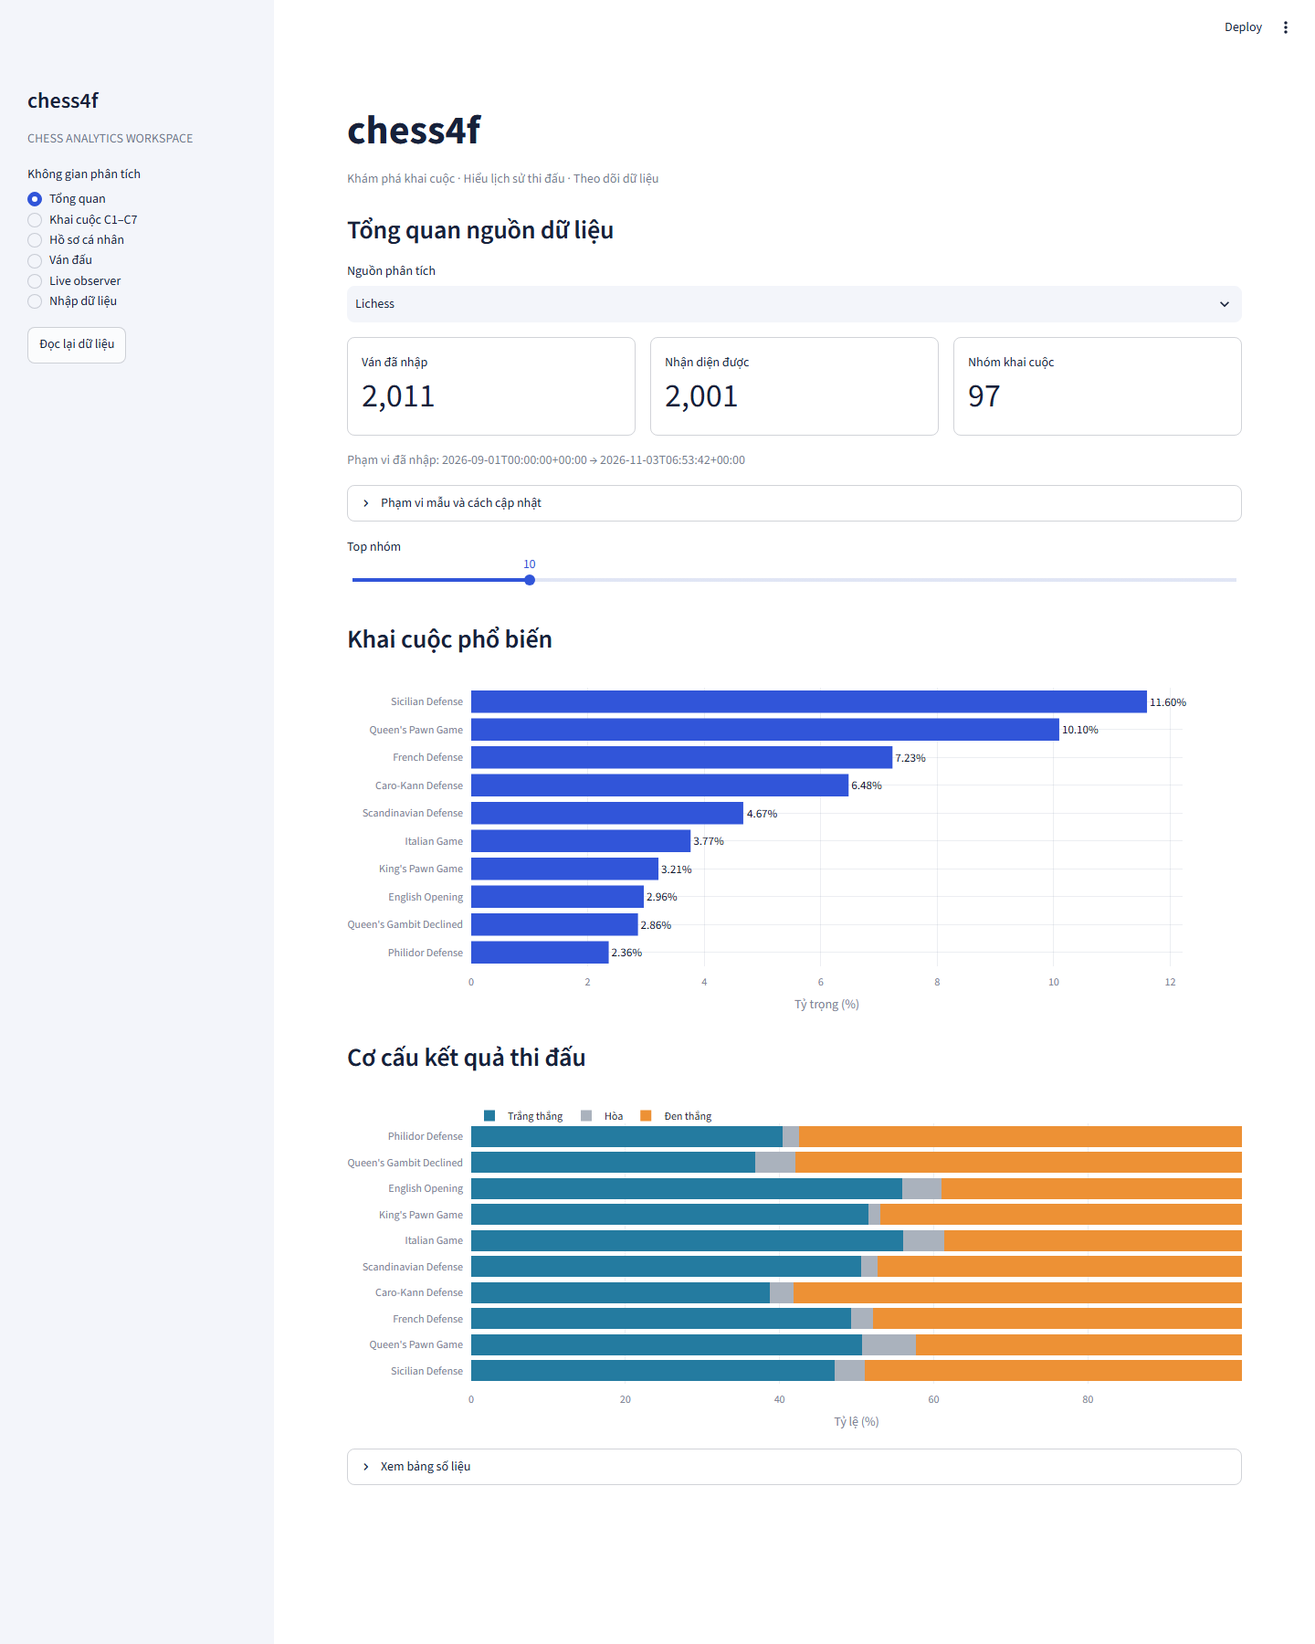
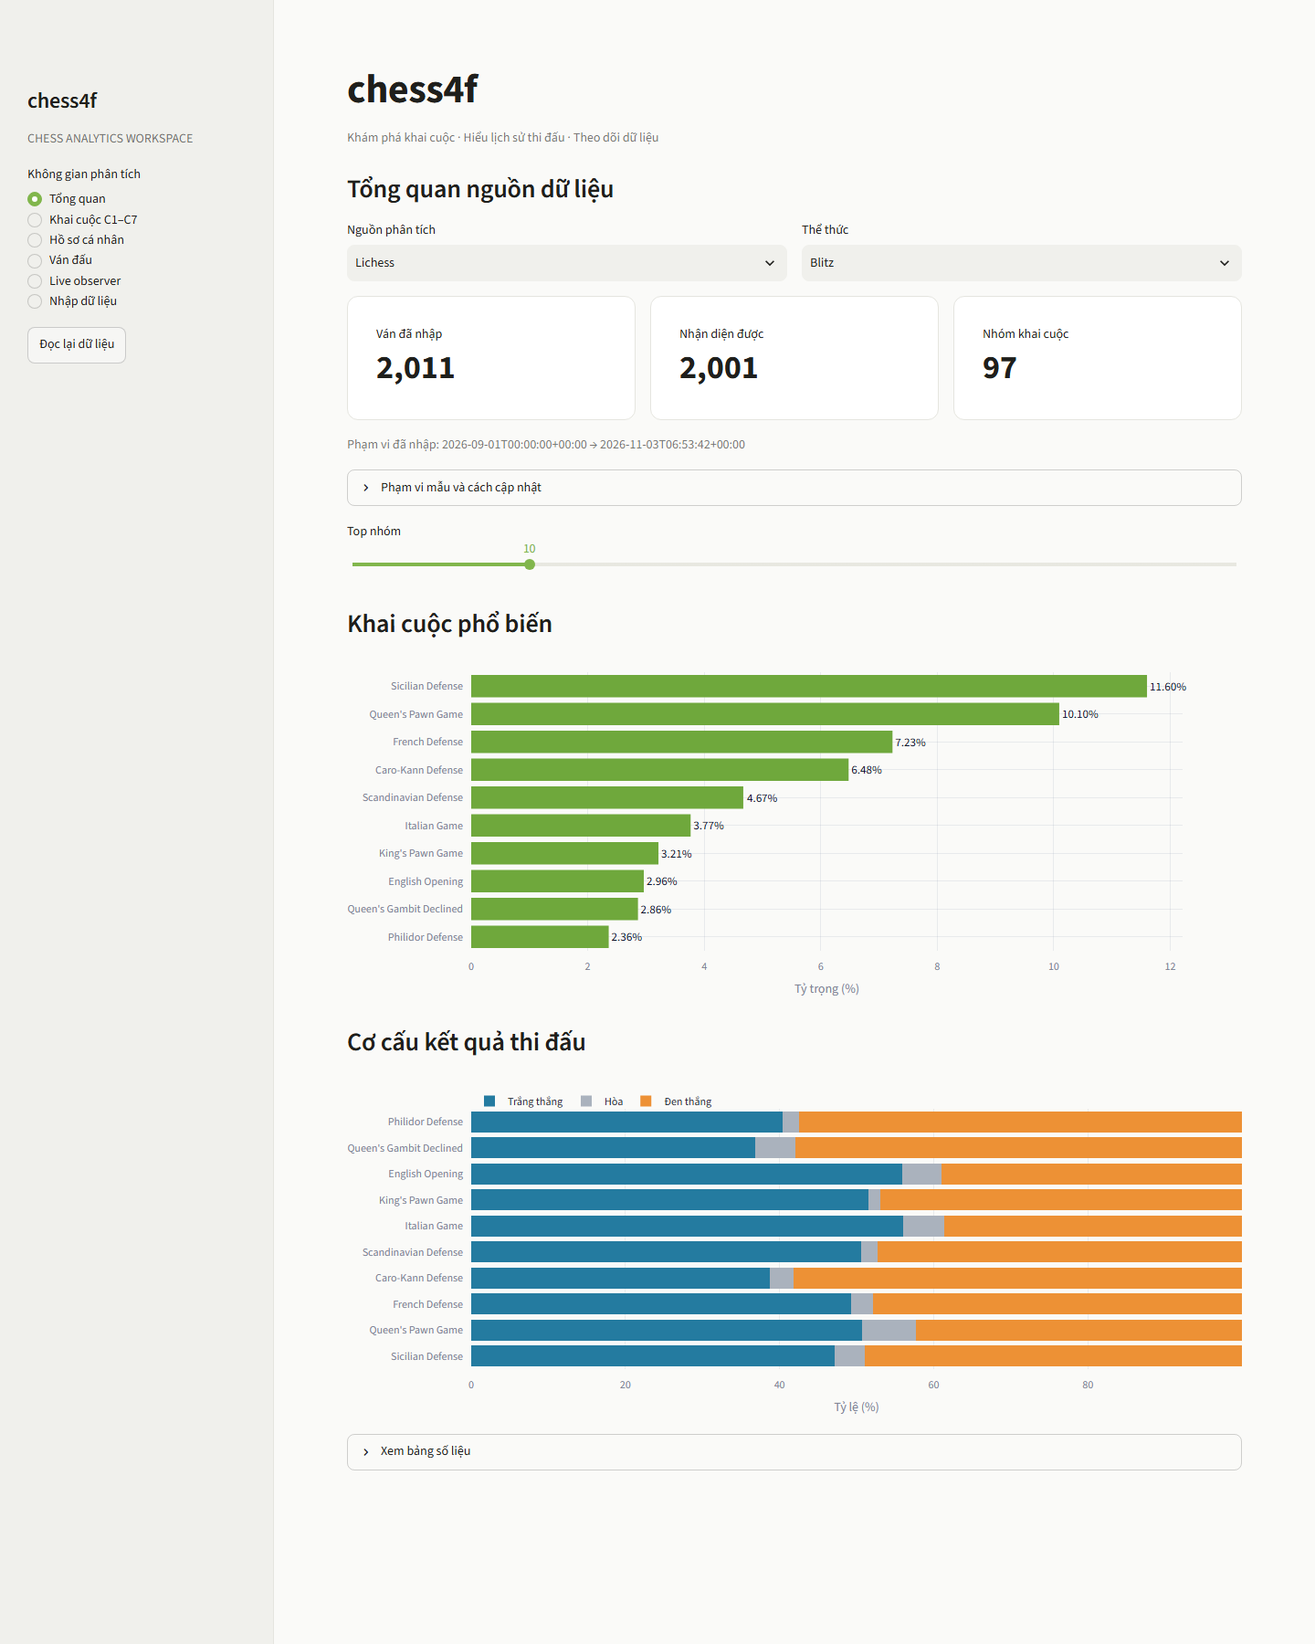
Add rapid speed dimension, player provenance and chess.com-style theme
- Gold aggregates and both overview paths now keep every speed; API and UI
  expose an explicit blitz/rapid/bullet/classical/all filter. Lichess
  collection accepts Rated Rapid (processor version 3) and the Sep/Oct
  refresh added 267 + 249 rapid games.
- Player profiles report own_archive_games from source URIs; accounts that
  only appear as opponents no longer count as imported and auto-fetch runs.
- Streamlit restyle: green accent, card metrics, rounded containers, classic
  green board palette; charts use the green primary colour.
- New release r_1abbfd67 (6,014 games, 473,595 moves, 1,115 aggregates,
  12,028 player rows) passed Spark parity and Trino publication.
- 46 tests; verify-serving and C1-C7 pass; docs/screenshots refreshed.

diff --git a/apps/dashboard.py b/apps/dashboard.py
@@ -9,6 +9,17 @@ import plotly.express as px
 import streamlit as st
 
 st.set_page_config(page_title="chess4f · Chess intelligence", page_icon="♞", layout="wide")
+st.markdown("""
+<style>
+  .block-container {padding-top: 2.2rem; max-width: 1200px;}
+  [data-testid="stMetric"] {background: #ffffff; border: 1px solid #e5e5df; border-radius: 12px; padding: 14px 16px;}
+  [data-testid="stMetricValue"] {font-weight: 700;}
+  [data-testid="stSidebar"] {border-right: 1px solid #e5e5df;}
+  h1, h2, h3 {letter-spacing: -0.01em;}
+  .stButton > button[kind="primary"] {background: #81B64C; border-color: #81B64C;}
+  [data-testid="stToolbar"], [data-testid="stDecoration"] {display: none;}
+</style>
+""", unsafe_allow_html=True)
 API = os.environ.get("CHESS4F_API", "http://127.0.0.1:8000")
 
 
@@ -23,6 +34,10 @@ def get(path, params=None):
 
 
 SOURCE_NAMES = {"lichess": "Lichess", "chesscom": "Chess.com", "import": "PGN nhập thủ công"}
+SPEEDS = ["blitz", "rapid", "bullet", "classical", "all"]
+SPEED_NAMES = {"blitz": "Blitz", "rapid": "Cờ 10 phút (Rapid)", "bullet": "Bullet",
+               "classical": "Classical", "all": "Tất cả thể thức"}
+BOARD_COLORS = {"square light": "#EEEED2", "square dark": "#769656"}
 st.title("chess4f")
 st.caption("Khám phá khai cuộc · Hiểu lịch sử thi đấu · Theo dõi dữ liệu")
 st.sidebar.title("chess4f")
@@ -33,8 +48,10 @@ if st.sidebar.button("Đọc lại dữ liệu"):
 
 if section == "Tổng quan":
     st.subheader("Tổng quan nguồn dữ liệu")
-    source = st.selectbox("Nguồn phân tích",["lichess","chesscom","import"], format_func=SOURCE_NAMES.get)
-    data = get("/overview",{"source":source})
+    a, b = st.columns(2)
+    source = a.selectbox("Nguồn phân tích",["lichess","chesscom","import"], format_func=SOURCE_NAMES.get)
+    speed = b.selectbox("Thể thức", SPEEDS, format_func=SPEED_NAMES.get, index=0)
+    data = get("/overview",{"source":source,"speed":speed})
     if data:
         s = data["summary"]
         if not s["games"]:
@@ -80,11 +97,13 @@ if section == "Tổng quan":
             with st.expander("Xem bảng số liệu"):
                 st.dataframe(df, width="stretch", hide_index=True)
         else:
-            st.warning("Chưa có Rated Blitz đủ điều kiện. Hồ sơ cá nhân vẫn hỗ trợ các thể thức khác.")
+            st.warning("Chưa có ván đủ điều kiện cho thể thức này. Hồ sơ cá nhân vẫn hỗ trợ các thể thức khác.")
 elif section == "Khai cuộc C1–C7":
     from opening_analysis import render
-    source = st.selectbox("Nguồn phân tích", ["lichess", "chesscom", "import"], format_func=SOURCE_NAMES.get)
-    payload = get("/openings/cube", {"source": source})
+    a, b = st.columns(2)
+    source = a.selectbox("Nguồn phân tích", ["lichess", "chesscom", "import"], format_func=SOURCE_NAMES.get)
+    speed = b.selectbox("Thể thức", SPEEDS, format_func=SPEED_NAMES.get, key="cube_speed")
+    payload = get("/openings/cube", {"source": source, "speed": speed})
     if payload:
         render(payload)
 elif section == "Hồ sơ cá nhân":
@@ -96,8 +115,8 @@ elif section == "Hồ sơ cá nhân":
     player_sync(API, source, username)
     if username:
         data = get(f"/players/{source}/{username}")
-        if data and data["summary"]["games"] == 0 and auto:
-            data = auto_sync_if_missing(API, source, username)
+        if data and source != "import" and auto and data["summary"].get("own_archive_games", 0) == 0:
+            data = auto_sync_if_missing(API, source, username) or data
         if data:
             from player_profile_view import render
             render(data)
@@ -111,7 +130,7 @@ elif section == "Ván đấu":
             board = chess.Board(moves[ply-1]["fen_after"]) if ply else chess.Board()
             a,b = st.columns([1,1])
             with a:
-                st.image(chess.svg.board(board,size=450), width=450)
+                st.image(chess.svg.board(board,size=450, colors=BOARD_COLORS), width=450)
             with b:
                 st.write(f'{game["white"]} — {game["black"]}')
                 st.write("Nhãn tại mốc:",moves[ply-1]["opening_name"] if ply else "Chưa có")
@@ -157,7 +176,7 @@ elif section == "Live observer":
                 st.subheader(" — ".join(names))
                 st.caption(f'Nhận gần nhất: {data.get("received_at", "chưa có")} · {data["source_delay"]}')
                 if data.get("fen"):
-                    st.image(chess.svg.board(chess.Board(data["fen"]),size=440), width=440)
+                    st.image(chess.svg.board(chess.Board(data["fen"]),size=440, colors=BOARD_COLORS), width=440)
                 label = data.get("opening")
                 st.write("Nhãn khớp gần nhất:", f'{label["name"]} ({label["eco"]})' if label else "Chưa nhận diện")
                 st.caption(f'Số sự kiện đã nhận: {data.get("received_events", 0)}')

diff --git a/src/chess4f/analytics.py b/src/chess4f/analytics.py
@@ -11,21 +11,24 @@ def records(cursor):
     return [dict(zip(cols, row)) for row in cursor.fetchall()]
 
 
-def overview(root, source="lichess"):
+def overview(root, source="lichess", speed="blitz"):
     lake = Lake(root)
+    speed_clause = "" if speed == "all" else " AND speed=?"
+    parameters = [source] if speed == "all" else [source, speed]
     with lake.connection() as con:
-        counts = records(con.execute("""SELECT count(*) games,
+        counts = records(con.execute(f"""SELECT count(*) games,
             count(opening_family) recognized, count(DISTINCT opening_family) opening_families,
-            min(played_at) first_game, max(played_at) last_game FROM silver_games WHERE source=?""",[source]))[0]
-        top = records(con.execute("""SELECT opening_family, sum(n_games)::BIGINT n_games,
+            min(played_at) first_game, max(played_at) last_game FROM silver_games
+            WHERE source=?{speed_clause}""", parameters))[0]
+        top = records(con.execute(f"""SELECT opening_family, sum(n_games)::BIGINT n_games,
             100*sum(white_score_sum)/sum(n_games) white_score_pct,
             100*sum(white_wins)/sum(n_games) white_win_pct,
             100*sum(draws)/sum(n_games) draw_pct,
             100*sum(black_wins)/sum(n_games) black_win_pct,
             100*sum(n_games)/sum(sum(n_games)) OVER () popularity_pct
-            FROM gold_openings WHERE source=? GROUP BY opening_family ORDER BY n_games DESC""",[source]))
-    return {"summary": counts, "openings": top, "source":source,
-            "scope": "Rated Blitz, recognized games only for opening charts; imported coverage, not platform-wide population",
+            FROM gold_openings WHERE source=?{speed_clause} GROUP BY opening_family ORDER BY n_games DESC""", parameters))
+    return {"summary": counts, "openings": top, "source": source, "speed": speed,
+            "scope": "Rated games by selected speed, recognized only for opening charts; imported coverage, not platform-wide population",
             "versions": lake.versions()}
 
 
@@ -45,6 +48,15 @@ def player_profile(root, source, username, *, connection_factory=None):
         history = records(con.execute("""SELECT game_key, played_at, opponent, color, speed, rating,
             outcome, opening_family FROM gold_player_games WHERE source=? AND player=?
             ORDER BY played_at DESC LIMIT 200""", parameters))
+        # A player can appear only as an opponent inside someone else's archive.
+        # Count rows whose source object actually belongs to this account so the
+        # UI can distinguish "their history" from "games against them".
+        pattern = (f"%player/{username.lower()}/%" if source == "chesscom"
+                   else f"%games/user/{username.lower()}%")
+        own = records(con.execute("""SELECT count(*) own_archive_games FROM silver_games
+            WHERE source=? AND (white=? OR black=?) AND lower(source_uri) LIKE ?""",
+            [source, username.lower(), username.lower(), pattern]))[0]["own_archive_games"]
+    summary["own_archive_games"] = own
     return dict(source=source, player=username.lower(), summary=summary,
                 openings=openings, opponents=opponents, history=history,
                 coverage="Imported games only; not necessarily full platform history")

diff --git a/src/chess4f/lakehouse.py b/src/chess4f/lakehouse.py
@@ -26,6 +26,9 @@ def release_id(value):
     return value
 
 
+SPEEDS = ("blitz", "rapid", "bullet", "classical", "all")
+
+
 def setup(project):
     path = Path(project) / ".env.lakehouse"
     # Never replace working credentials on a repeated setup.
@@ -191,27 +194,31 @@ def validate_publish(root, project, rid):
         return manifest
 
 
-def overview(root, source):
+def overview(root, source, speed="blitz"):
     if source not in ("lichess", "chesscom", "import"):
         raise ValueError("Unknown source")
+    if speed not in SPEEDS:
+        raise ValueError("Unknown speed")
     pointer = Path(root) / "published/latest.json"
     if not pointer.exists():
         raise RuntimeError("No validated lakehouse release has been published")
     manifest = json.loads(pointer.read_text(encoding="utf-8"))
     rid = release_id(manifest["release_id"])
+    speed_clause = "" if speed == "all" else f" AND speed='{speed}'"
     summary = sql(f"SELECT count(*) games, count(opening_family) recognized, "
                   f"count(DISTINCT opening_family) opening_families, min(played_at) first_game, "
-                  f"max(played_at) last_game FROM chess.{rid}.silver_games WHERE source='{source}'")[0]
+                  f"max(played_at) last_game FROM chess.{rid}.silver_games "
+                  f"WHERE source='{source}'{speed_clause}")[0]
     rows = sql(f"""SELECT opening_family, sum(n_games) n_games,
       100.0*sum(white_score_sum)/sum(n_games) white_score_pct,
       100.0*sum(white_wins)/sum(n_games) white_win_pct,
       100.0*sum(draws)/sum(n_games) draw_pct,
       100.0*sum(black_wins)/sum(n_games) black_win_pct,
       100.0*sum(n_games)/sum(sum(n_games)) OVER () popularity_pct
-      FROM chess.{rid}.spark_openings WHERE source='{source}'
+      FROM chess.{rid}.spark_openings WHERE source='{source}'{speed_clause}
       GROUP BY opening_family ORDER BY n_games DESC""")
-    return {"summary": summary, "openings": rows, "source": source, "engine": "trino",
-            "release_id": rid, "versions": manifest["source_versions"]}
+    return {"summary": summary, "openings": rows, "source": source, "speed": speed,
+            "engine": "trino", "release_id": rid, "versions": manifest["source_versions"]}
 
 
 def main():

diff --git a/tests/test_pipeline.py b/tests/test_pipeline.py
@@ -90,8 +90,9 @@ def test_api_contract_with_local_fixture(lake_root, pgn_file, monkeypatch):
     monkeypatch.setenv("CHESS4F_DATA", str(lake_root))
     ingest_pgn(lake_root, pgn_file, "lichess")
     from chess4f import api, analytics
-    for name in ("overview", "player_profile", "game_detail", "move_habits"):
+    for name in ("player_profile", "game_detail", "move_habits"):
         monkeypatch.setattr(api, name, getattr(analytics, name))
+    monkeypatch.setattr(api, "overview", lambda root, source, speed: analytics.overview(root, source))
     client = TestClient(app)
     assert client.get("/health").status_code == 200
     assert client.get("/overview").json()["summary"]["games"] == 2
@@ -105,3 +106,23 @@ def test_lichess_game_url_and_legacy_url_share_identity(lake_root, pgn_file):
     run = ingest_pgn(lake_root, pgn_file, "lichess")
     assert run["accepted"] == 2 and run["quarantined"] == 0
     assert overview(lake_root)["summary"]["games"] == 2
+
+
+def test_rapid_games_reach_gold_aggregates(lake_root, pgn_file):
+    rapid = pgn("RaPiD123").replace('[TimeControl "180+2"]', '[TimeControl "600+0"]')
+    rapid = rapid.replace('[Event "Rated Blitz game"]', '[Event "Rated Rapid game"]')
+    pgn_file.write_text(rapid, encoding="utf-8")
+    ingest_pgn(lake_root, pgn_file, "lichess")
+    with Lake(lake_root).connection() as con:
+        speeds = dict(con.execute("SELECT speed, count(*) FROM gold_openings GROUP BY speed").fetchall())
+    assert speeds.get("rapid") == 1
+    assert "blitz" not in speeds
+
+
+def test_player_profile_separates_own_archive_from_opponent_rows(lake_root, pgn_file):
+    ingest_pgn(lake_root, pgn_file, "lichess", source_uri="https://lichess.org/api/games/user/alice")
+    profile = player_profile(lake_root, "lichess", "alice")
+    assert profile["summary"]["own_archive_games"] == 2
+    opponent = player_profile(lake_root, "lichess", "bob")
+    assert opponent["summary"]["games"] == 2
+    assert opponent["summary"]["own_archive_games"] == 0

diff --git a/src/chess4f/trino_serving.py b/src/chess4f/trino_serving.py
@@ -64,17 +64,21 @@ def move_habits(root, source, username, fen, before, exclude_game=None):
 overview = lakehouse.overview
 
 
-def opening_cube(root, source):
+def opening_cube(root, source, speed="blitz"):
     if source not in ("lichess", "chesscom", "import"):
         raise ValueError("Unknown source")
+    if speed not in ("blitz", "rapid", "bullet", "classical", "all"):
+        raise ValueError("Unknown speed")
+    speed_clause = "" if speed == "all" else " AND speed=?"
+    parameters = [source] if speed == "all" else [source, speed]
     with connection(root) as con:
-        cursor = con.execute("""SELECT year_month, rating_group, opening_family, opening_name,
+        cursor = con.execute(f"""SELECT year_month, rating_group, speed, opening_family, opening_name,
             count(*) n_games,
             sum(CASE WHEN result='1-0' THEN 1 ELSE 0 END) white_wins,
             sum(CASE WHEN result='1/2-1/2' THEN 1 ELSE 0 END) draws,
             sum(CASE WHEN result='0-1' THEN 1 ELSE 0 END) black_wins
-            FROM silver_games WHERE source=? AND rated AND speed='blitz' AND opening_family IS NOT NULL
-            GROUP BY year_month, rating_group, opening_family, opening_name
-            ORDER BY year_month, rating_group, opening_family, opening_name""", [source])
+            FROM silver_games WHERE source=? AND rated AND opening_family IS NOT NULL{speed_clause}
+            GROUP BY year_month, rating_group, speed, opening_family, opening_name
+            ORDER BY year_month, rating_group, speed, opening_family, opening_name""", parameters)
         rows = [dict(zip(cursor.columns, row)) for row in cursor.fetchall()]
-        return {"release_id": con.release, "source": source, "rows": rows}
+        return {"release_id": con.release, "source": source, "speed": speed, "rows": rows}

diff --git a/src/chess4f/sources.py b/src/chess4f/sources.py
@@ -94,7 +94,7 @@ class HeaderFilter(chess.pgn.GameBuilder):
         h = self.game.headers
         if not h.get("UTCDate", h.get("Date", "")).startswith(self.day.replace("-", ".")):
             return chess.pgn.SKIP
-        if not re.match(r"^Rated Blitz\b", h.get("Event", "")):
+        if not re.match(r"^Rated (Blitz|Rapid)\b", h.get("Event", "")):
             return chess.pgn.SKIP
         return super().end_headers()
 
@@ -148,7 +148,7 @@ def lichess_day(root, day, limit=1000):
                                 break
                             manifest["scanned"] += 1
                             h = game.headers
-                            if h.get("UTCDate", h.get("Date", "")).startswith(day.replace("-", ".")) and re.match(r"^Rated Blitz\b", h.get("Event", "")):
+                            if h.get("UTCDate", h.get("Date", "")).startswith(day.replace("-", ".")) and re.match(r"^Rated (Blitz|Rapid)\b", h.get("Event", "")):
                                 out.write(str(game) + "\n\n")
                                 manifest["selected"] += 1
                             if manifest["scanned"] % 10000 == 0:

diff --git a/src/chess4f/api.py b/src/chess4f/api.py
@@ -18,10 +18,12 @@ def health():
 
 
 @app.get("/overview")
-def overview_route(source: str = "lichess"):
+def overview_route(source: str = "lichess", speed: str = "blitz"):
     if source not in ("lichess", "chesscom", "import"):
         raise HTTPException(422, "Unknown source")
-    return overview(data_root(), source)
+    if speed not in ("blitz", "rapid", "bullet", "classical", "all"):
+        raise HTTPException(422, "Unknown speed")
+    return overview(data_root(), source, speed)
 
 
 @app.get("/players/{source}/{username}")
@@ -85,9 +87,9 @@ async def serving_unavailable(request, exc):
     return JSONResponse(status_code=503, content={"detail": "Published lakehouse is unavailable; check Trino and the release pointer."})
 
 @app.get("/openings/cube")
-def openings(source: str = "lichess"):
+def openings(source: str = "lichess", speed: str = "blitz"):
     try:
-        return opening_cube(data_root(), source)
+        return opening_cube(data_root(), source, speed)
     except ValueError as exc:
         raise HTTPException(422, str(exc)) from exc
 

diff --git a/apps/player_profile_view.py b/apps/player_profile_view.py
@@ -13,6 +13,8 @@ def render(data):
     if not s["games"]:
         st.info("Chưa có ván của tài khoản này trong dữ liệu đã nhập. Mở mục Tải / cập nhật lịch sử ở phía trên để đồng bộ tài khoản, hoặc thử Chess.com / hikaru với bộ demo hiện tại.")
         return
+    if int(s.get("own_archive_games") or 0) == 0:
+        st.info("Các ván đang hiển thị đến từ lịch sử của đối thủ, chưa phải lịch sử của chính tài khoản này. Hãy nhập đúng username và để hệ thống tải lịch sử của tài khoản.")
     for col, key, label in zip(st.columns(4), ["games", "wins", "draws", "losses"], ["Số ván", "Thắng", "Hòa", "Thua"]):
         col.metric(label, thousands(int(s.get(key) or 0)), border=True)
     wins, draws, losses = int(s.get("wins") or 0), int(s.get("draws") or 0), int(s.get("losses") or 0)

diff --git a/apps/opening_analysis.py b/apps/opening_analysis.py
@@ -8,7 +8,9 @@ from theme import COLORS, WDL, style
 
 def render(payload):
     st.header("Khai cuộc · mức sử dụng và kết quả")
-    st.caption(f'Bản dữ liệu: {payload["release_id"]} · Rated Blitz đã nhận diện')
+    labels = {"blitz": "Blitz", "rapid": "Cờ 10 phút (Rapid)", "bullet": "Bullet",
+              "classical": "Classical", "all": "tất cả thể thức"}
+    st.caption(f'Bản dữ liệu: {payload["release_id"]} · {labels.get(payload.get("speed"), payload.get("speed"))} đã nhận diện')
     st.info("Tỷ lệ điểm Trắng = (số ván Trắng thắng + 0,5 × số ván hòa) / tổng số ván × 100%. Đây là kết quả thực chiến, không phải xác suất thắng của một thế cờ hay tác động nhân quả của khai cuộc.")
     df = pd.DataFrame(payload["rows"])
     if df.empty:

diff --git a/src/chess4f/pipeline.py b/src/chess4f/pipeline.py
@@ -104,7 +104,7 @@ def rebuild_gold(lake):
                    sum((result='1/2-1/2')::INTEGER)::BIGINT draws,
                    sum((result='0-1')::INTEGER)::BIGINT black_wins,
                    sum(white_score)::DOUBLE white_score_sum
-            FROM silver_games WHERE rated AND speed='blitz' AND opening_family IS NOT NULL
+            FROM silver_games WHERE rated AND opening_family IS NOT NULL
             GROUP BY ALL
         """).to_arrow_reader(65536)
         lake.overwrite("gold/openings", openings)

diff --git a/jobs/build_gold.py b/jobs/build_gold.py
@@ -31,7 +31,7 @@ try:
         sum(CASE WHEN result='1/2-1/2' THEN 1 ELSE 0 END) draws,
         sum(CASE WHEN result='0-1' THEN 1 ELSE 0 END) black_wins,
         sum(white_score) white_score_sum
-      FROM games WHERE rated AND speed='blitz' AND opening_family IS NOT NULL
+      FROM games WHERE rated AND opening_family IS NOT NULL
       GROUP BY source, year_month, speed, rating_group, opening_family
     """)
     players = spark.sql("""

diff --git a/src/chess4f/refresh.py b/src/chess4f/refresh.py
@@ -11,7 +11,7 @@ from .sources import lichess_day, month_plan
 from .storage import atomic_json, utc_now
 
 
-PROCESSOR_VERSION = "2-lichess-game-url"
+PROCESSOR_VERSION = "3-lichess-rapid"
 
 
 def probe_month(month):
